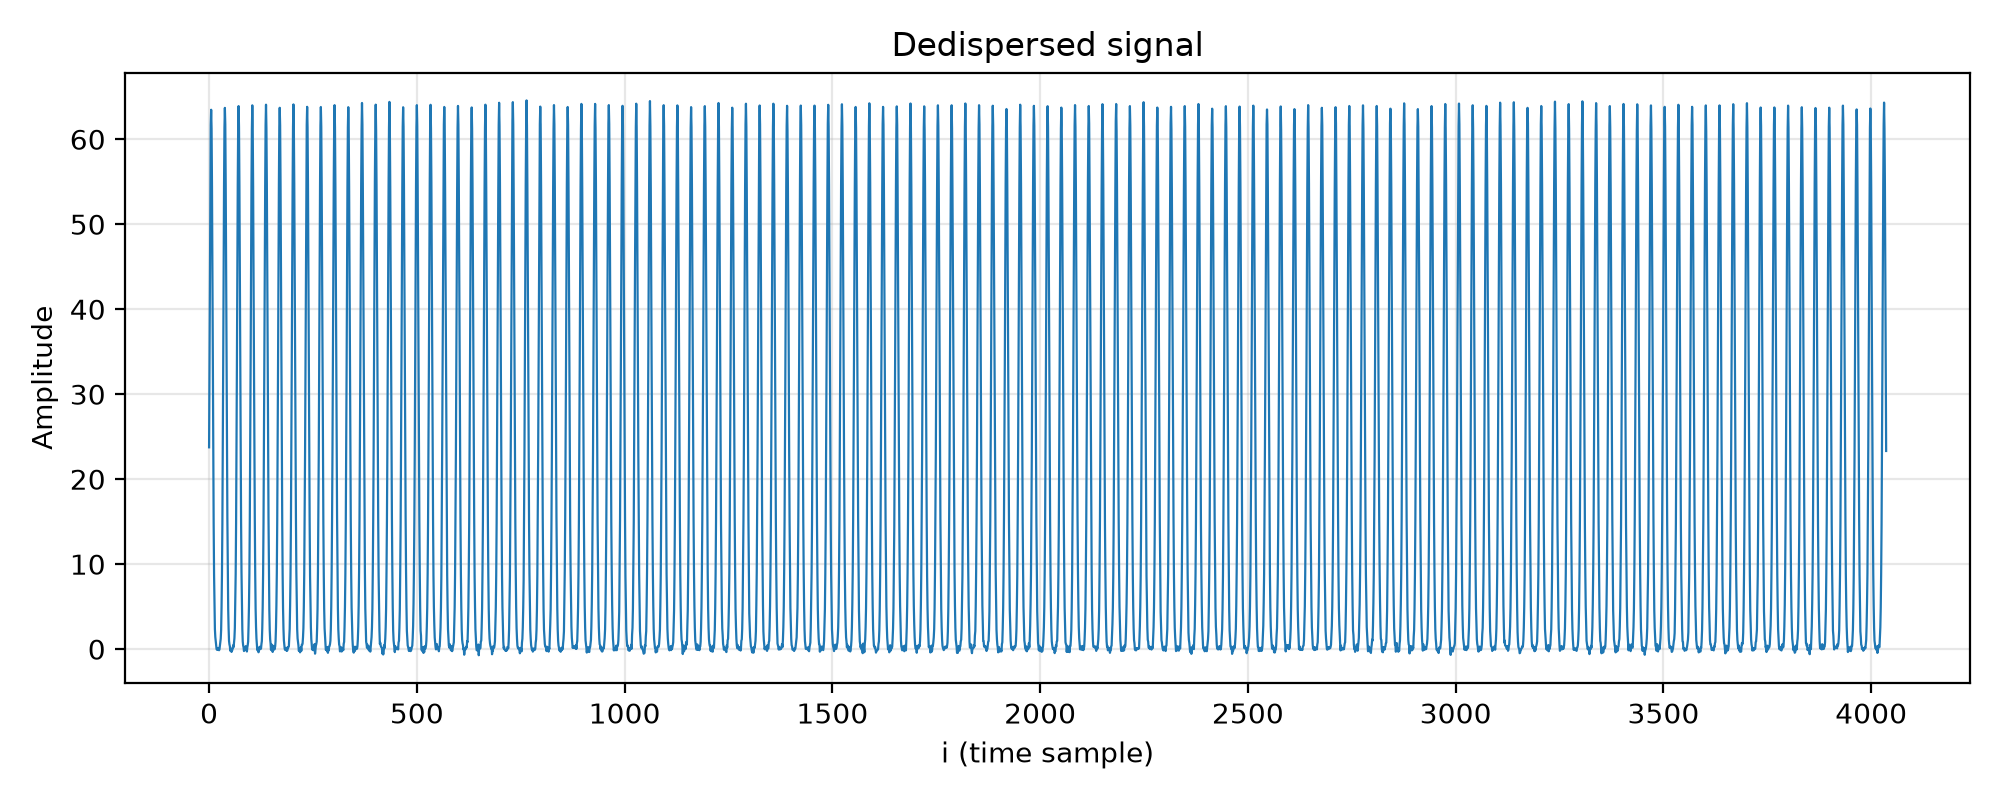
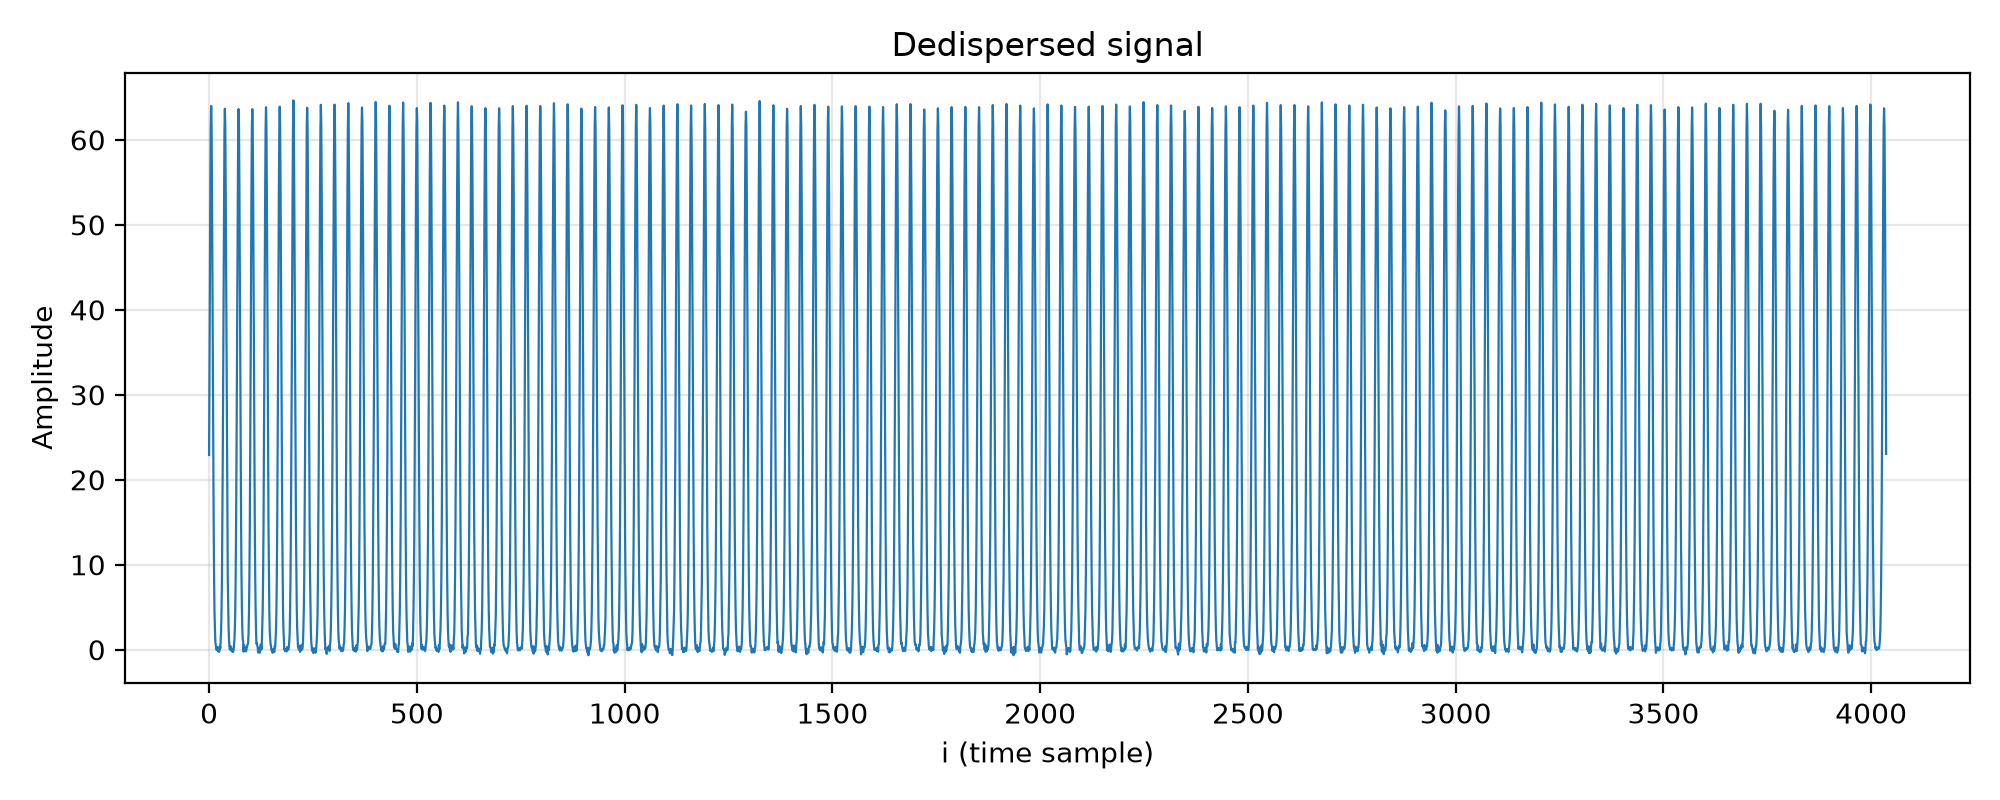
Optimise loops

diff --git a/dft.c b/dft.c
@@ -16,7 +16,14 @@ int main(void)
     float *dedispersed = calloc(N_UTIL, sizeof(float));
     float *magnitudes = calloc(NB_K, sizeof(float));
 
-    if (!dedispersed || !magnitudes) goto cleanup;
+    double *x = calloc(N_UTIL, sizeof(double));
+    double *cos_t = calloc(N_UTIL, sizeof(double));
+    double *sin_t = calloc(N_UTIL, sizeof(double));
+
+    if (!dedispersed || !magnitudes || !x || !cos_t || !sin_t){
+        fprintf(stderr, "Eror: out of memory\n");
+        goto cleanup;
+    }
 
     // Read the dedispersed signal
     f = fopen("dedispersed.csv", "r");
@@ -45,22 +52,35 @@ int main(void)
 
     mean /= N_UTIL;
 
+    // Preapare variable so they are not uselessly re-computed
+    if (!x || !cos_t || !sin_t){
+        fprintf(stderr, "Error: out of memory\n");
+        goto cleanup;
+    }
+
+    // Windowed, mean-substracted signal (computed once)
+    for (int n = 0; n < N_UTIL; n++){
+        double w = 0.5 * (1.0 - cos(2.0 * PI * n / (N_UTIL - 1)));
+        x[n] = (dedispersed[n] - mean) * w;
+    }
+
+    // Twidde factors : exp(-2*pi*i*m/N_UTIL) for m = 0 ... N_UTIL -1
+    for (int m = 0; m < N_UTIL; m++){
+        double angle = -2.0 * PI * m / N_UTIL;
+        cos_t[m] = cos(angle);
+        sin_t[m] = sin(angle);
+    }
+
     // Compute the DFT with a Hann window
     for (int k = 0; k < NB_K; k++) {
-        double re = 0.0;
-        double im = 0.0;
+        double re = 0.0, im = 0.0;
+        int m = 0;
 
         for (int n = 0; n < N_UTIL; n++) {
-            float w = 0.5f * (
-                1.0f - cosf(2.0f * PI * n / (N_UTIL - 1))
-            );
-
-            double angle = -2.0 * PI * k * n / N_UTIL;
-
-            double x = (dedispersed[n] - mean) * w;
-
-            re += x * cos(angle);
-            im += x * sin(angle);
+            re += x[n] * cos_t[m];
+            im += x[n] * sin_t[m];
+            m += k;
+            if (m >= N_UTIL) m -= N_UTIL;
         }
 
         magnitudes[k] = (float)sqrt(re * re + im * im);
@@ -86,6 +106,9 @@ cleanup:
 
     free(dedispersed);
     free(magnitudes);
+    free(x);
+    free(cos_t);
+    free(sin_t);
 
     return ret;
 }

diff --git a/dedispersion.c b/dedispersion.c
@@ -54,20 +54,18 @@ int main(void)
     fclose(data_file);
     data_file = NULL;
 
+    int shift[N_CHANNEL];
+    for (int c = 0; c < N_CHANNEL; c++){
+        float f_c = F_MIN + c * (F_MAX - F_MIN) / (N_CHANNEL - 1);
+        float delta_t_c = K_DM * DM * (1.0f / (f_c * f_c) - 1.0f / (F_REF * F_REF));
+        shift[c] = (int)(delta_t_c / DT);
+    }
+
     // Dedisperse
     for (int t = MIN_UTIL; t < MAX_UTIL; t++) {
         float sum = 0.0f;
-
-        for (int c = 0; c < N_CHANNEL; c++) {
-            float f_c = F_MIN +
-                c * (F_MAX - F_MIN) / (N_CHANNEL - 1);
-
-            float delta_t_c = K_DM * DM *
-                (1.0f / (f_c * f_c) -
-                 1.0f / (F_REF * F_REF));
-
-            int idx = t + (int)(delta_t_c / DT);
-
+        for (int c = 0; c < N_CHANNEL; c++){
+            int idx = t + shift[c];
             if (idx >= 0 && idx < N)
                 sum += signal[c][idx];
         }
